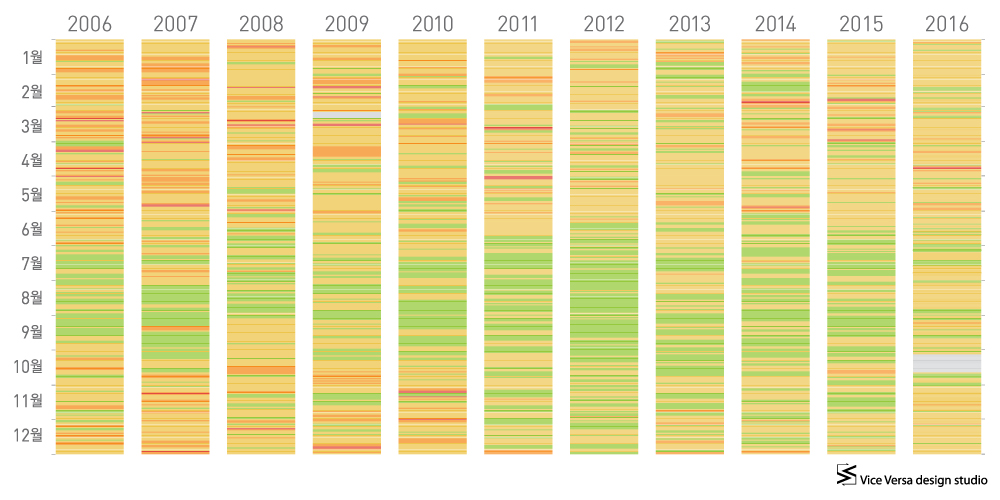
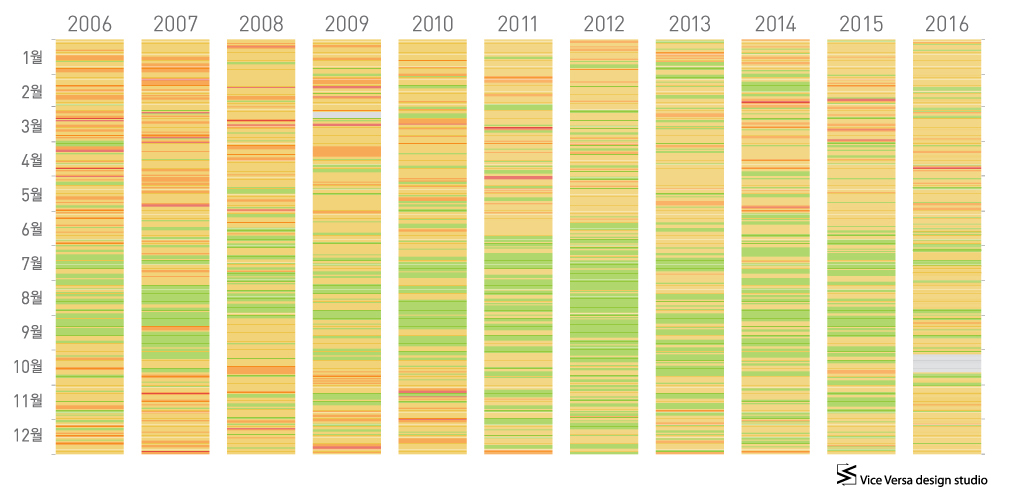
finishing touches

diff --git a/index.html b/index.html
@@ -108,7 +108,7 @@
                     </div>
                   </div>
 
-                <img src="./img/17.05.11_pm10-graphs.jpg">
+                <img style="width: 100%" src="./img/17.05.11_pm10-graphs.jpg">
 
 
               <p>‘미세먼지 농도가 점점 좋아지고 있다고?’<br />

diff --git a/css/style.css b/css/style.css
@@ -150,8 +150,8 @@ img {
 }
 
 .colourlegend, .colourlegend-small {
-	border-top: 1px solid #cacaca;
-	border-bottom: 1px solid #cacaca;
+	/*border-top: 1px solid #cacaca;
+	border-bottom: 1px solid #cacaca;*/
 	padding: 10px 0;
 	margin: 0 auto;
 }
